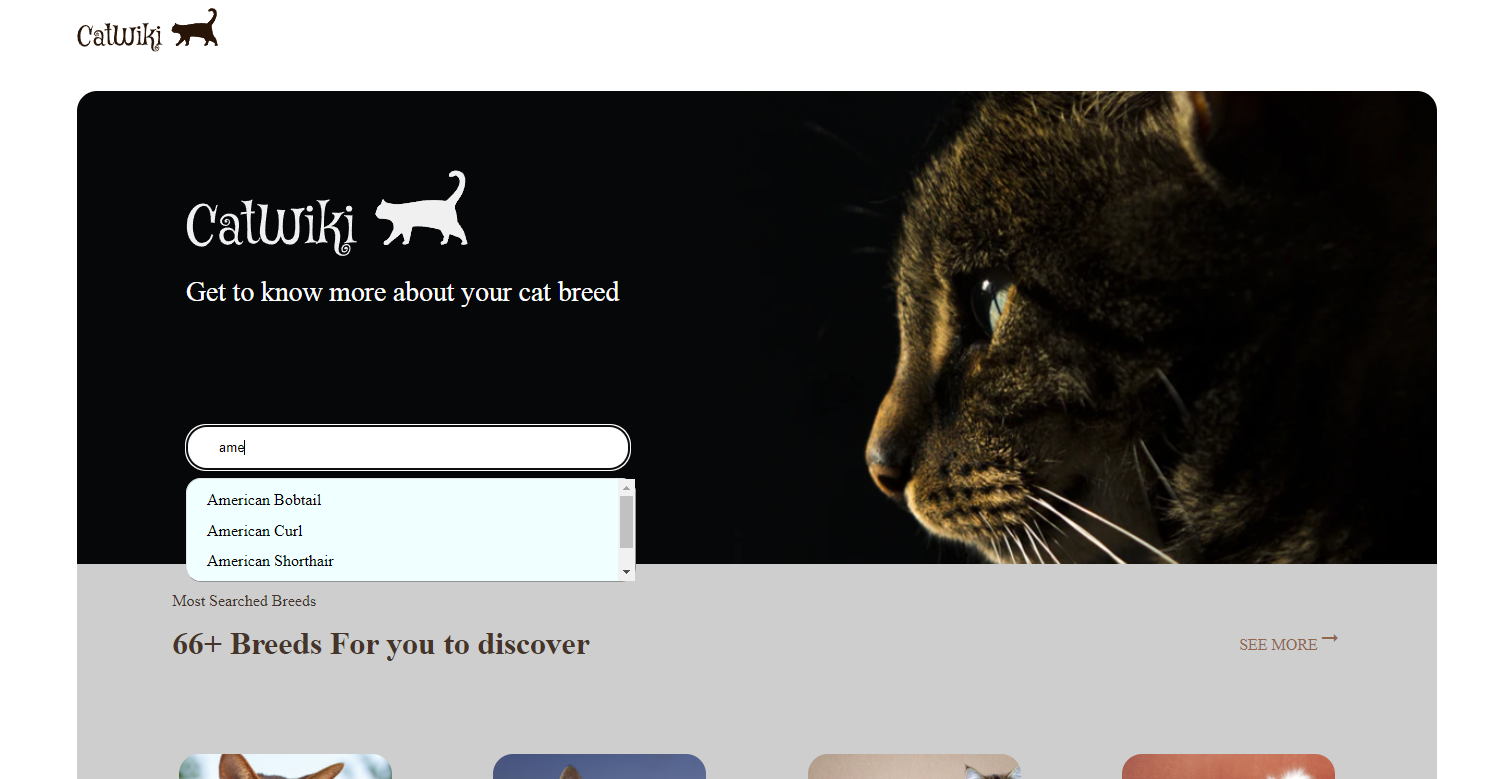
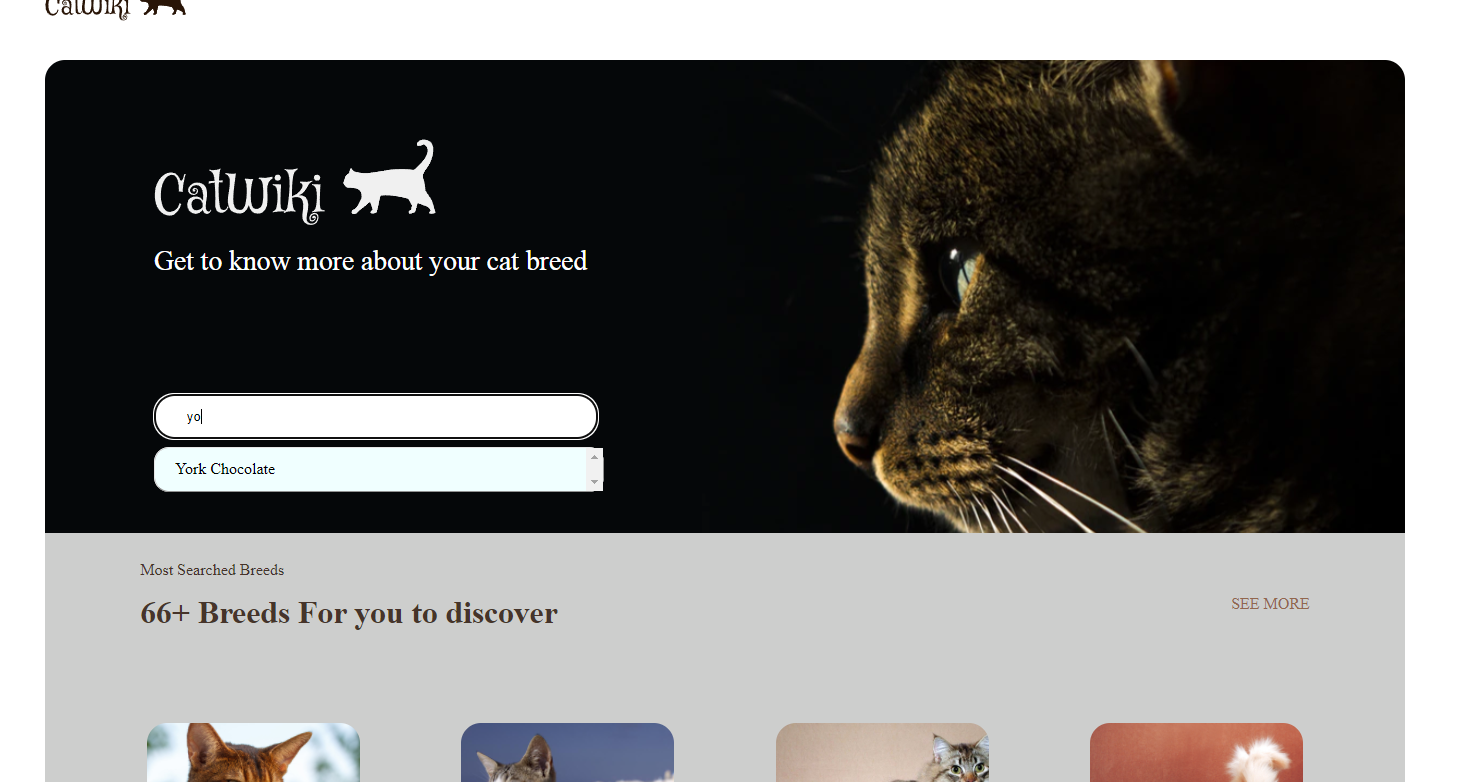
changes

diff --git a/src/components/CatSearch.js b/src/components/CatSearch.js
@@ -56,7 +56,6 @@ export const CatSearch = () => {
           <b className="big">66+ Breeds For you to discover</b>
           <a href="/searched" className="more">
             SEE MORE
-            <i className="material-icons">arrow_right_alt</i>
           </a>
         </div>
       </div>
